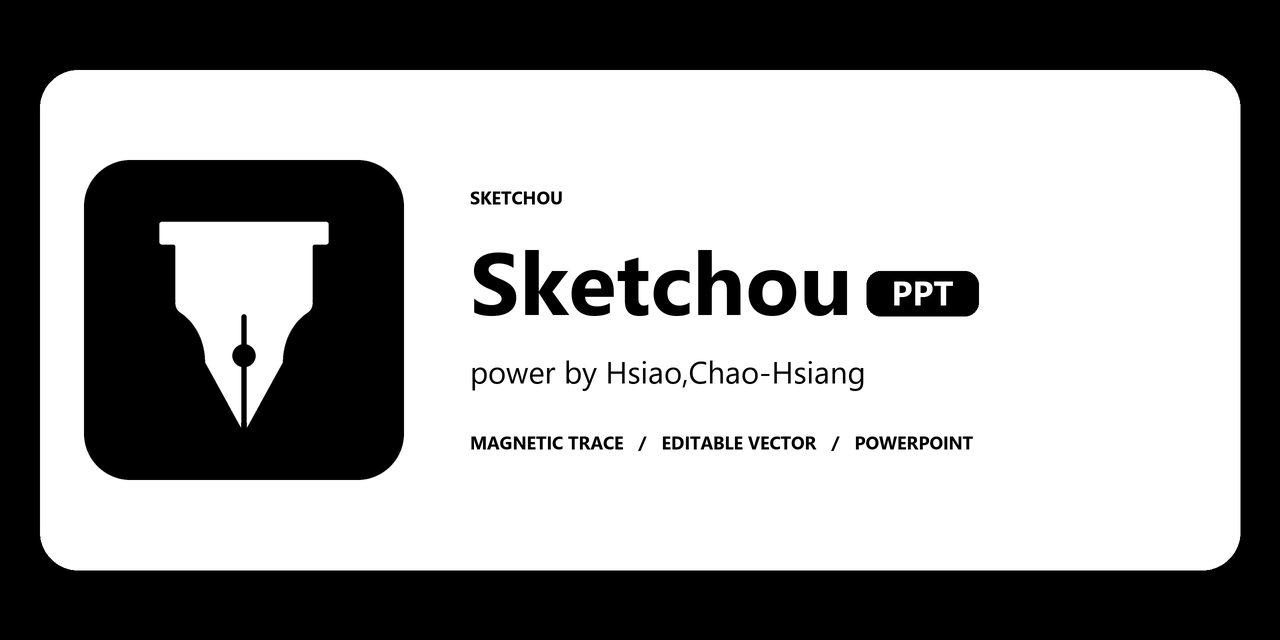
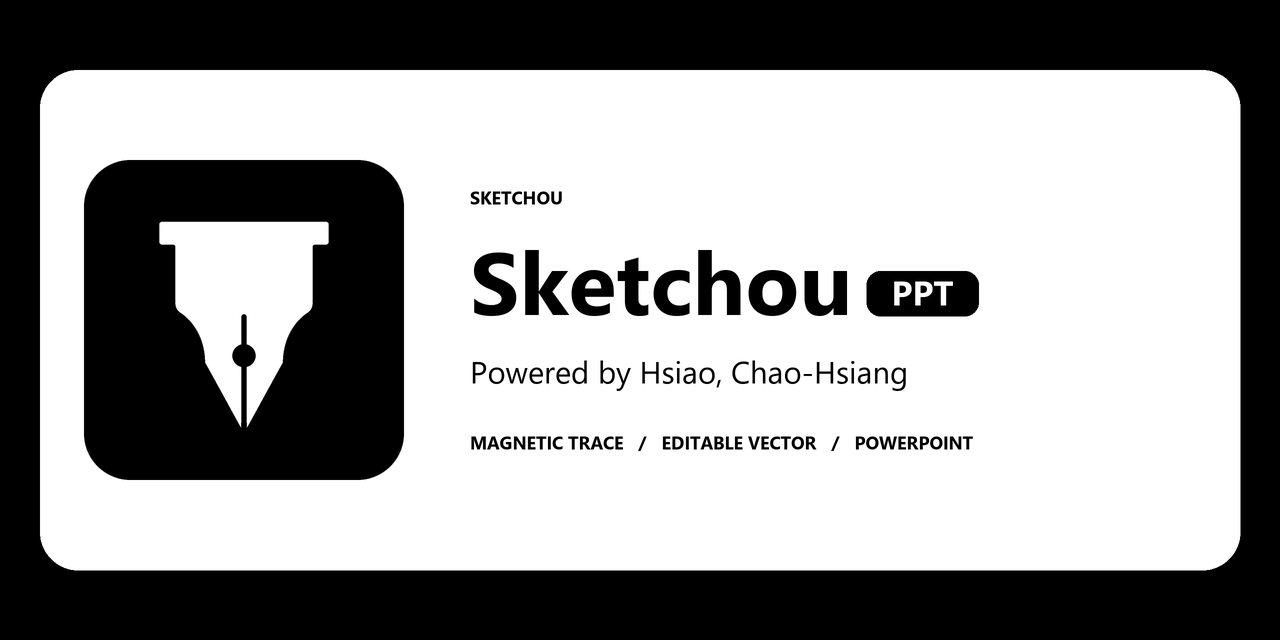
fix: use correct Powered by credit

Changed region(s): [[0.3438, 0.5625, 0.7188, 0.625]]

diff --git a/scripts/build_icon.py b/scripts/build_icon.py
@@ -68,7 +68,7 @@ def social_preview() -> Image.Image:
     label_x = pill[0] + (pill[2] - pill[0] - label_width) / 2 - label_box[0]
     label_y = pill[1] + (pill[3] - pill[1] - label_height) / 2 - label_box[1]
     draw.text((label_x, label_y), "PPT", font=label, fill=(255, 255, 255))
-    draw.text((text_x, 350 * scale), "power by Hsiao,Chao-Hsiang", font=subtitle, fill=(0, 0, 0))
+    draw.text((text_x, 350 * scale), "Powered by Hsiao, Chao-Hsiang", font=subtitle, fill=(0, 0, 0))
     draw.text(
         (text_x, 430 * scale),
         "MAGNETIC TRACE   /   EDITABLE VECTOR   /   POWERPOINT",
@@ -97,6 +97,7 @@ def main() -> None:
     preview_v4_path = BRAND / "social-preview-v4.png"
     preview_v5_path = BRAND / "social-preview-v5.png"
     preview_v6_path = BRAND / "social-preview-v6.png"
+    preview_v7_path = BRAND / "social-preview-v7.png"
     preview = social_preview()
     preview.save(preview_path, optimize=True)
     preview.save(preview_v2_path, optimize=True)
@@ -104,8 +105,9 @@ def main() -> None:
     preview.save(preview_v4_path, optimize=True)
     preview.save(preview_v5_path, optimize=True)
     preview.save(preview_v6_path, optimize=True)
+    preview.save(preview_v7_path, optimize=True)
 
-    for path in (icon_png, icon_ico, brand_ico, legacy_ico, preview_path, preview_v2_path, preview_v3_path, preview_v4_path, preview_v5_path, preview_v6_path):
+    for path in (icon_png, icon_ico, brand_ico, legacy_ico, preview_path, preview_v2_path, preview_v3_path, preview_v4_path, preview_v5_path, preview_v6_path, preview_v7_path):
         print(path)
 
 
